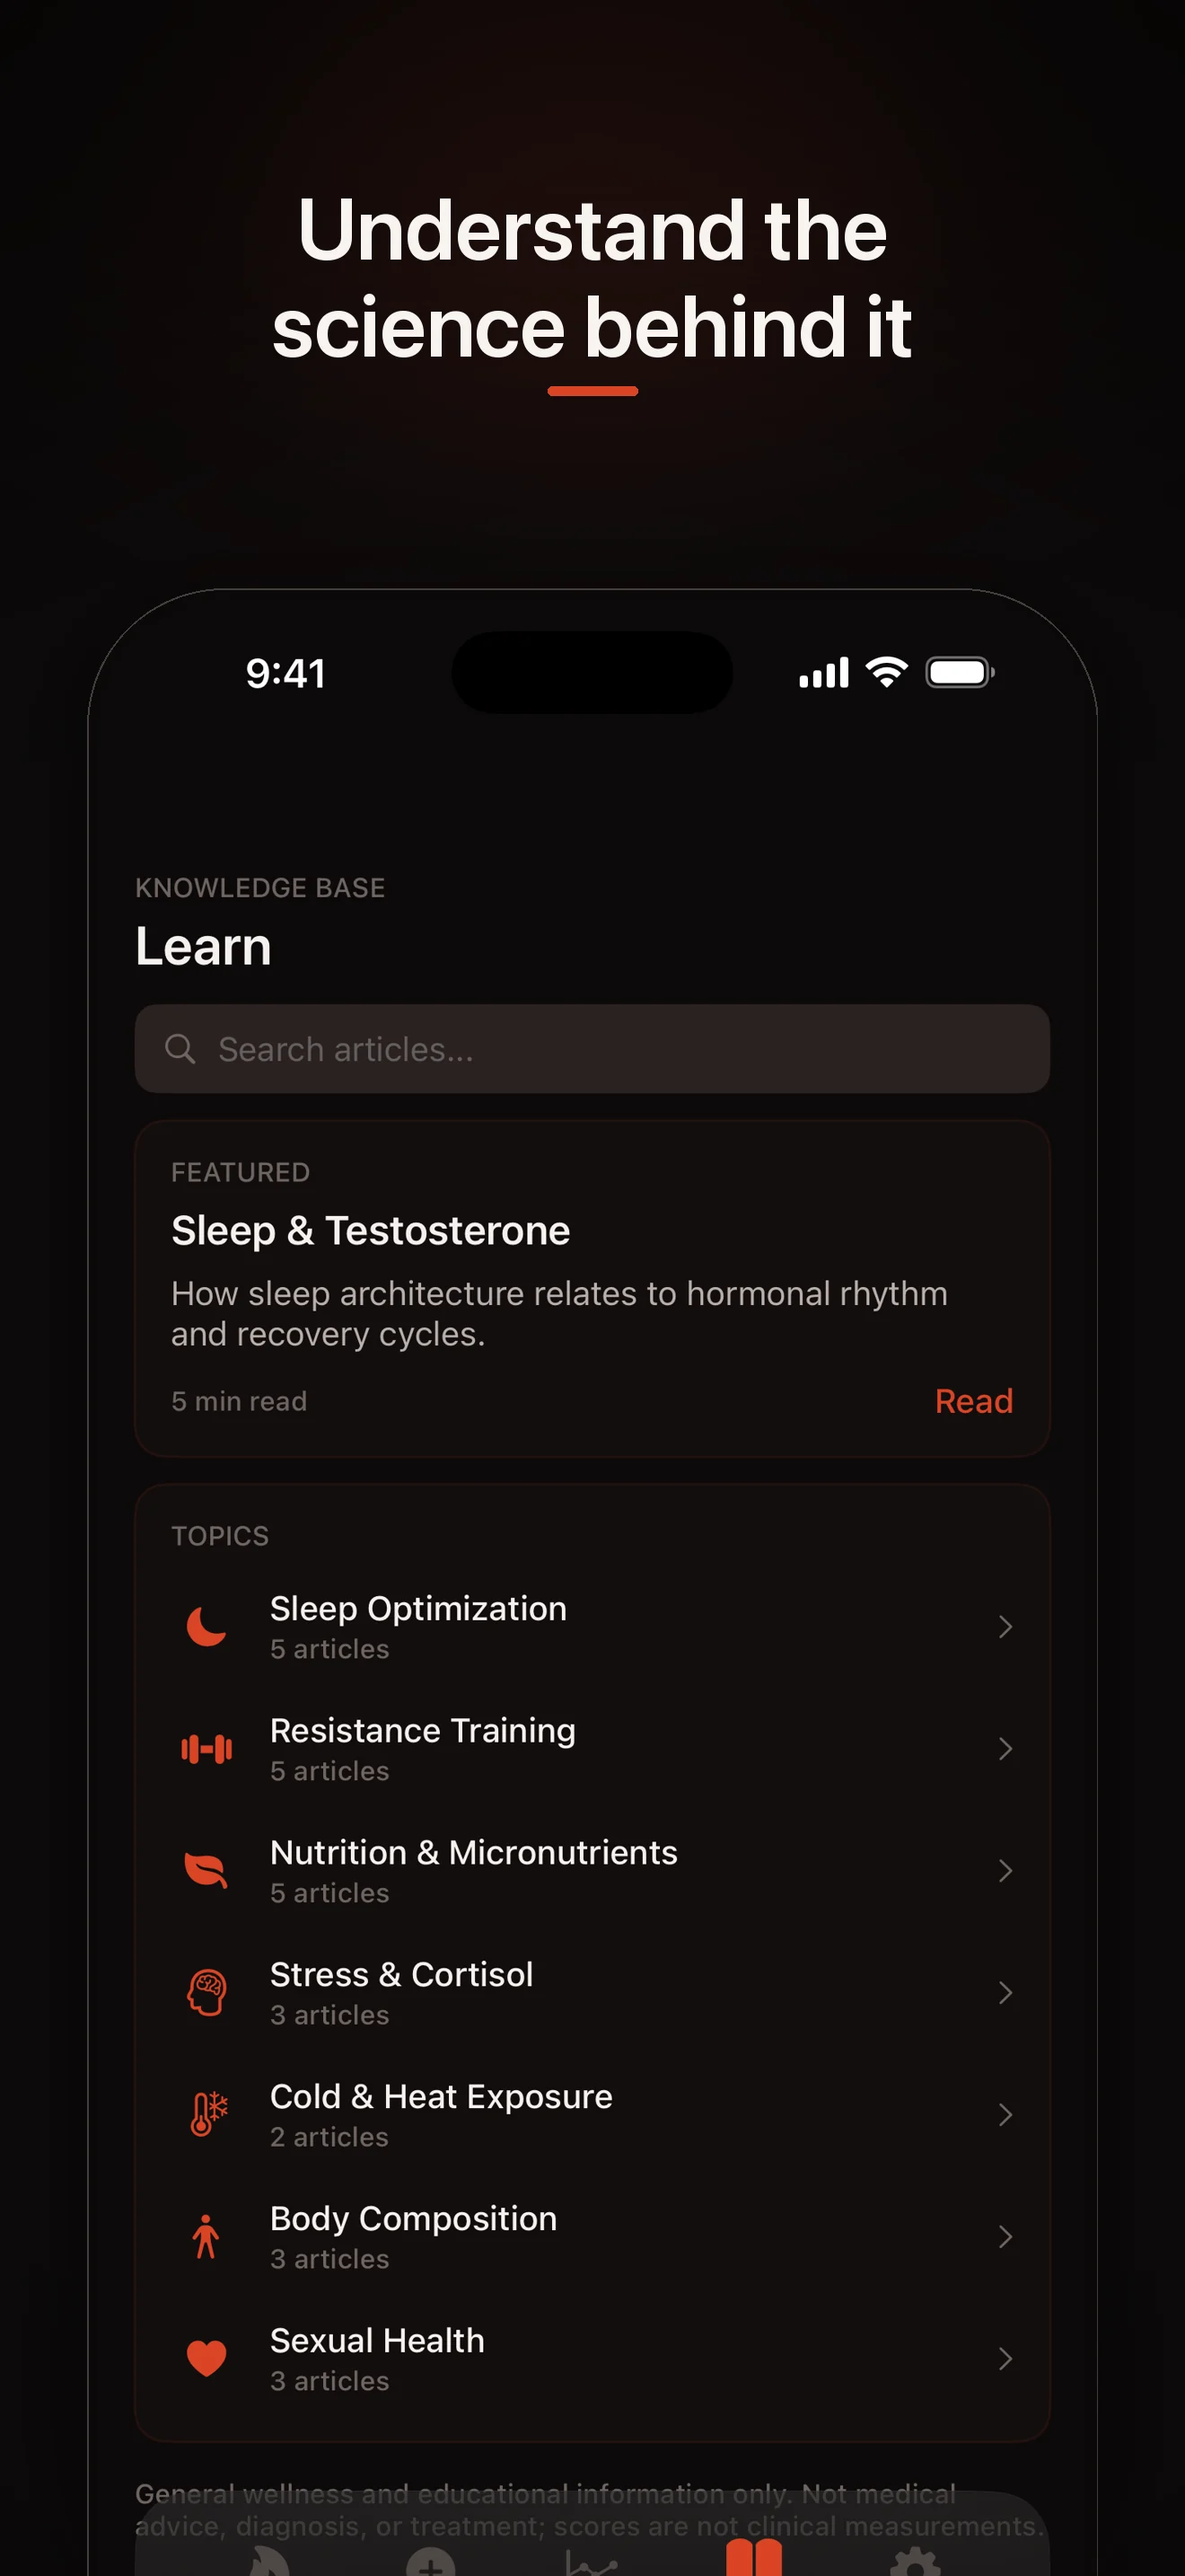
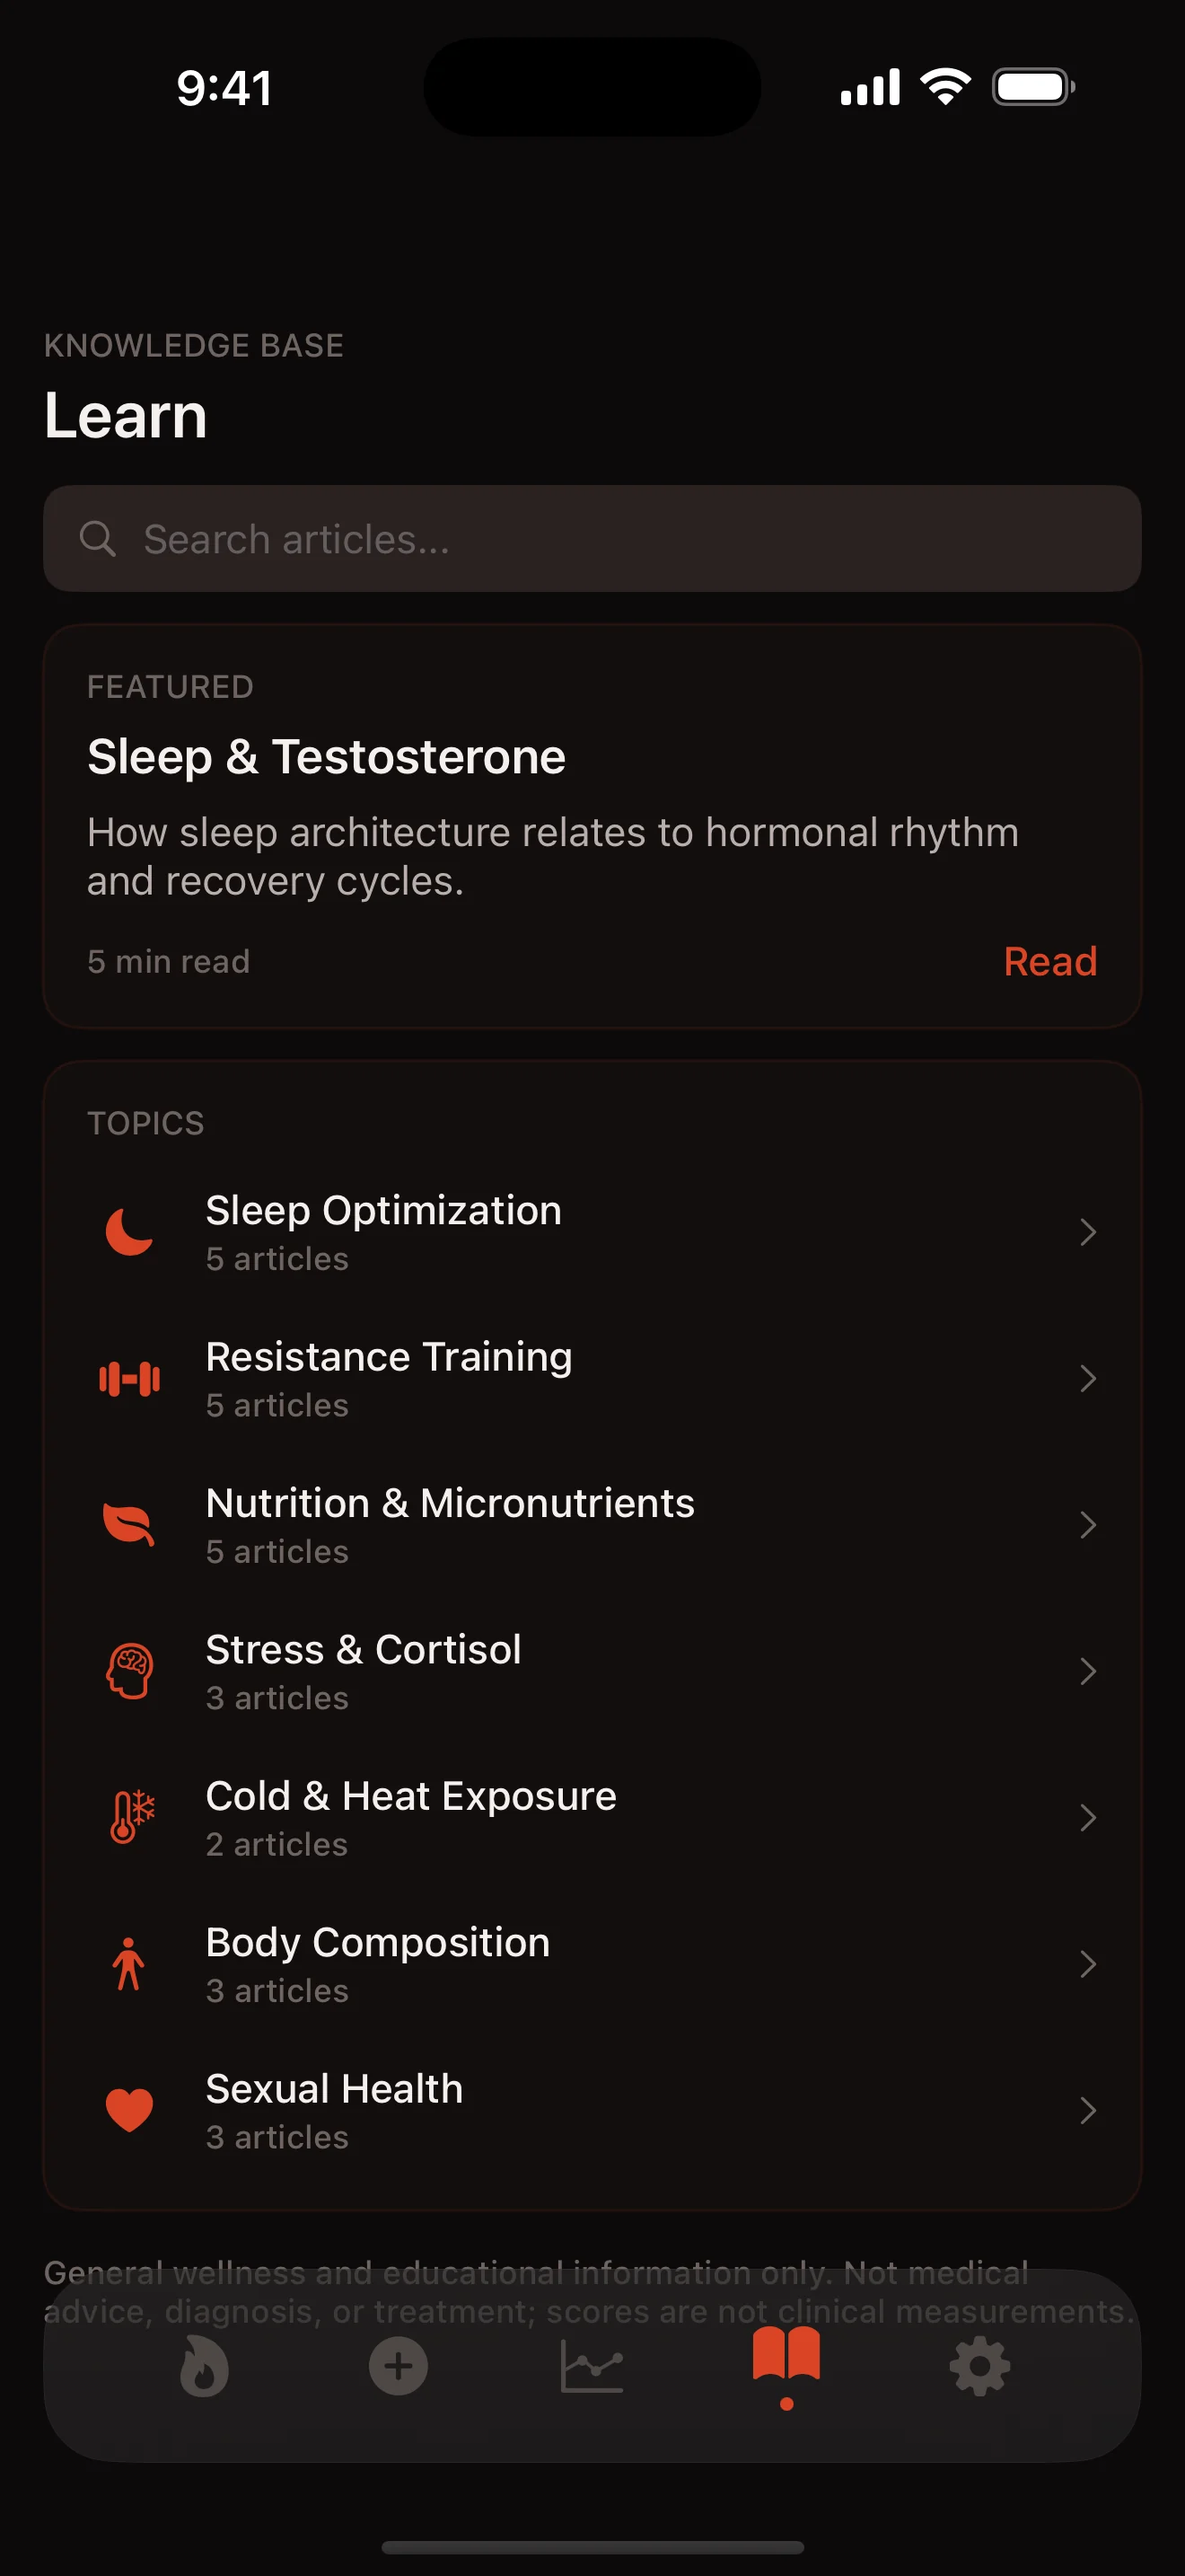
LP: use raw app screenshots (not captioned), smaller hero CTAs

diff --git a/assets/css/lp.css b/assets/css/lp.css
@@ -82,9 +82,9 @@ body::after{content:""; position:fixed; inset:0; z-index:1; pointer-events:none;
 .hero__device .phone{max-width:360px}
 .cta-row{display:flex; align-items:center; gap:18px; margin-top:30px; flex-wrap:wrap}
 .cta-row--center{justify-content:center}
-.badge-link img{height:56px; width:auto; display:block}
+.badge-link img{height:48px; width:auto; display:block}
 .nav__cta img{height:38px}
-.ghost{font-size:.95rem; font-weight:600; color:var(--text); padding:14px 20px; border:1px solid var(--hair); border-radius:999px; transition:border-color .2s,background .2s}
+.ghost{font-size:.88rem; font-weight:600; color:var(--text); padding:11px 18px; border:1px solid var(--hair); border-radius:999px; transition:border-color .2s,background .2s}
 .ghost:hover{border-color:rgba(217,68,37,.5); background:rgba(217,68,37,.06)}
 
 /* takeaways */
